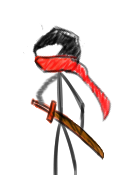
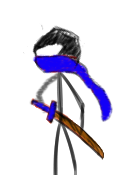
結束ㄌ

Changed region(s): [[0.264, 0.2857, 0.912, 0.7143], [0.24, 0.5429, 0.48, 0.7143], [0.552, 0.1714, 0.576, 0.2]]

diff --git a/game.js b/game.js
@@ -23,11 +23,14 @@ function ini() {
     dof2 = 0;
     wd2 = 0;
     sactive2 = 0;
+    start = 0;
+    document.getElementById("test").src="playerR.png";
+    document.getElementById("test2").src="playerL.png";
     document.getElementById("player1").style.position = "relative";
-    document.getElementById("player1").style.top = ypos + "px";
+    document.getElementById("player1").style.top = ypos - 75 + "px";
     document.getElementById("player1").style.left = xpos + "px";
     document.getElementById("player2").style.position = "relative";
-    document.getElementById("player2").style.top = (ypos2-105) + "px";
+    document.getElementById("player2").style.top = (ypos2-105) - 148 + "px";
     document.getElementById("player2").style.left = xpos2 + "px";
     document.addEventListener('keydown', move, false);
     document.addEventListener('keydown', move3, false);
@@ -46,10 +49,18 @@ function ini() {
     blockl2 = 0;
     blockr2 = 0;
     ss = 0; //斬殺衝突(紀錄誰先砍誰)
+    vic = 0;
 }
 
 function move(event) {
     var myevent = event ? event : window.event;
+    if (start == 0) {
+        start = 1;
+        document.getElementById("test").src="playerRM.png";
+        document.getElementById("test2").src="player2LM.png";
+        document.getElementById("player1").style.top = ypos + "px";
+        document.getElementById("player2").style.top = (ypos2-105) + "px";
+    }
     var wallv;
     if ((myevent.keyCode == 89) && (skystatus != 's') && (skystatus != 'c') && sactive == 0) { //t
         if (skystatus2 == 's') ss = 1;
@@ -300,13 +311,36 @@ function slash() {
             if (i > 0) document.getElementById("test").src="playerLS.png";
             else document.getElementById("test").src="playerRS.png";
             if (Math.abs(i) < 50 && Math.abs(j) < 75) {
-                document.getElementById("result").innerHTML = xpos + " " + xpos2;
-                if ((ss == 2) || (i < 0 && blockl2 != 1) || (i > 0 && blockr2 != 1) || (skystatus2 == 'w' && xpos == xpos2)) {
+                if (ss == 1) {
                     document.removeEventListener('keydown', move, false);
                     document.removeEventListener('keydown', move3, false);
                     document.removeEventListener('keyup', move2, false);
                     document.removeEventListener('keyup', move4, false);
-                    document.getElementById("result").innerHTML = "PALYER1 WIN!!";
+                    if (vic == 0) {
+                        alert("PALYER2 WIN!!");
+                        vic = 1;
+                    }
+                }
+                else if (ss == 2) {
+                    document.removeEventListener('keydown', move, false);
+                    document.removeEventListener('keydown', move3, false);
+                    document.removeEventListener('keyup', move2, false);
+                    document.removeEventListener('keyup', move4, false);
+                    if (vic == 0) {
+                        alert("PALYER1 WIN!!");
+                        vic = 1;
+                    }
+                }
+                else if ((i < 0 && blockl2 != 1) || (i > 0 && blockr2 != 1) || xpos == xpos2) {
+                    document.removeEventListener('keydown', move, false);
+                    document.removeEventListener('keydown', move3, false);
+                    document.removeEventListener('keyup', move2, false);
+                    document.removeEventListener('keyup', move4, false);
+                    if (vic == 0) {
+                        alert("PALYER1 WIN!!");
+                        vic = 1;
+                    }
+                    
                 }
                 skystatus = 'c';
                 close(i , j);
@@ -357,8 +391,8 @@ function close(a,b) {
                     else if (ypos >= 620) ypos = 620;
                     else ypos -= b*4;
                 }
-                document.getElementById("player1").style.top = ypos + "px";
                 document.getElementById("player1").style.left = xpos + "px";
+                document.getElementById("player1").style.top = ypos + "px";
                 c++;
                 close(a,b);
             },1)
@@ -705,13 +739,13 @@ function move3(event) {
     }
     else if (myevent.keyCode == 220 && skystatus2 != 's') { //\
         if (active2 == 1) {
-            document.getElementById("test2").src="playerLB.png";
+            document.getElementById("test2").src="player2LB.png";
             bf2 = 1;
             blockl2 = 1;
             blockr2 = 0;
         }
         else if (active2 == 2) {
-            document.getElementById("test2").src="playerRB.png";
+            document.getElementById("test2").src="player2RB.png";
             bf2 = 1;
             blockr2 = 1;
             blockl2 = 0;
@@ -725,14 +759,14 @@ function move3(event) {
     if ((myevent.keyCode == 37) && (active2 != 1)) {
         active2 = 1;
         if (swf2 == 0) {
-            document.getElementById("test2").src="playerLM.png";
+            document.getElementById("test2").src="player2LM.png";
             left2();
         }
     }
     else if ((myevent.keyCode == 39) && (active2 != 2)) {
         active2 = 2;
         if (swf2 == 0) {
-            document.getElementById("test2").src="playerRM.png";
+            document.getElementById("test2").src="player2RM.png";
             right2();
         }
     }
@@ -760,8 +794,8 @@ function move4(event2) {
     if (myevent.keyCode == 219) sactive2 = 0;
     if (myevent.keyCode == 220 && bf2 == 1) {
         bf2 = 0;
-        if(blockl2 == 1) document.getElementById("test2").src="playerLM.png";
-        else document.getElementById("test2").src="playerRM.png";
+        if(blockl2 == 1) document.getElementById("test2").src="player2LM.png";
+        else document.getElementById("test2").src="player2RM.png";
         blockl2 = 0;
         blockr2 = 0;
     }
@@ -822,15 +856,38 @@ function slash2() {
             var i,j;
             i = xpos2 - xpos;
             j = ypos2 - ypos;
-            if (i > 0) document.getElementById("test2").src="playerLS.png";
-            else document.getElementById("test2").src="playerRS.png";
+            if (i > 0) document.getElementById("test2").src="player2LS.png";
+            else document.getElementById("test2").src="player2RS.png";
             if (Math.abs(i) < 50 && Math.abs(j) < 75) {
-                if ((ss == 1) || (i < 0 && blockl != 1) || (i > 0 && blockr != 1) || (skystatus == 'w' && xpos2 == xpos)) {
+                if (ss == 1) {
                     document.removeEventListener('keydown', move, false);
                     document.removeEventListener('keydown', move3, false);
                     document.removeEventListener('keyup', move2, false);
                     document.removeEventListener('keyup', move4, false);
-                    document.getElementById("result").innerHTML = "PALYER2 WIN!!";
+                    if (vic == 0) {
+                        alert("PALYER2 WIN!!");
+                        vic = 1;
+                    }
+                }
+                else if (ss == 2) {
+                    document.removeEventListener('keydown', move, false);
+                    document.removeEventListener('keydown', move3, false);
+                    document.removeEventListener('keyup', move2, false);
+                    document.removeEventListener('keyup', move4, false);
+                    if (vic == 0) {
+                        alert("PALYER1 WIN!!");
+                        vic = 1;
+                    }
+                }
+                else if ((i < 0 && blockl != 1) || (i > 0 && blockr != 1) || xpos2 == xpos) {
+                    document.removeEventListener('keydown', move, false);
+                    document.removeEventListener('keydown', move3, false);
+                    document.removeEventListener('keyup', move2, false);
+                    document.removeEventListener('keyup', move4, false);
+                    if (vic == 0) {
+                        alert("PALYER2 WIN!!");
+                        vic = 1;
+                    }
                 }
                 skystatus2 = 'c';
                 close2(i , j);
@@ -890,10 +947,10 @@ function close2(a,b) {
     }
     else {
         if(a < 0 ){
-            document.getElementById("test2").src="playerRM.png";
+            document.getElementById("test2").src="player2RM.png";
         }
         else if(a > 0 ){
-            document.getElementById("test2").src="playerLM.png";
+            document.getElementById("test2").src="player2LM.png";
         }
         c2 = 0;
         skystatus2 = 'j';
@@ -946,7 +1003,7 @@ function wall2(u,d,v) {
                     }
                 }
                 else if (hori == 0 && verti == 1 && wd2 == 3) { //左
-                    document.getElementById("test2").src="playerLM.png";
+                    document.getElementById("test2").src="player2LM.png";
                     if (xpos2 > -550) {
                         xpos2-=5;
                         cleary = ypos2+30;
@@ -961,7 +1018,7 @@ function wall2(u,d,v) {
                     }
                 }
                 else if (hori == 0 && verti == 2 && wd2 == 7) { //右
-                    document.getElementById("test2").src="playerRM.png";
+                    document.getElementById("test2").src="player2RM.png";
                     if (xpos2 < 533) {
                         xpos2+=5;
                         cleary = ypos2+30;
@@ -977,7 +1034,7 @@ function wall2(u,d,v) {
                     
                 }
                 else if (hori == 2 && verti == 2 && wd2 == 8) { //右上
-                    document.getElementById("test2").src="playerRM.png";
+                    document.getElementById("test2").src="player2RM.png";
                     if (xpos2 < 533 && ypos2 > 0) {
                         ypos2-=5;
                         xpos2+=5;
@@ -1004,7 +1061,7 @@ function wall2(u,d,v) {
                     }
                 }
                 else if (hori == 2 && verti == 1 && wd2 == 2) { //左上
-                    document.getElementById("test2").src="playerLM.png";
+                    document.getElementById("test2").src="player2LM.png";
                     if (xpos2 > -550 && ypos2 > 0) {
                         ypos2-=5;
                         xpos2-=5;
@@ -1031,7 +1088,7 @@ function wall2(u,d,v) {
                     }
                 }
                 else if (hori == 1 && verti == 2 && wd2 == 4) { //右下
-                    document.getElementById("test2").src="playerRM.png";
+                    document.getElementById("test2").src="player2RM.png";
                     if (xpos2 < 533 && ypos2 < 620) {
                         ypos2+=5;
                         xpos2+=5;
@@ -1061,7 +1118,7 @@ function wall2(u,d,v) {
                     }
                 }
                 else if (hori == 1 && verti == 1 && wd2 == 6) { //左下
-                    document.getElementById("test2").src="playerLM.png";
+                    document.getElementById("test2").src="player2LM.png";
                     if (xpos2 > -550 && ypos2 < 620) {
                         ypos2+=5;
                         xpos2-=5;
